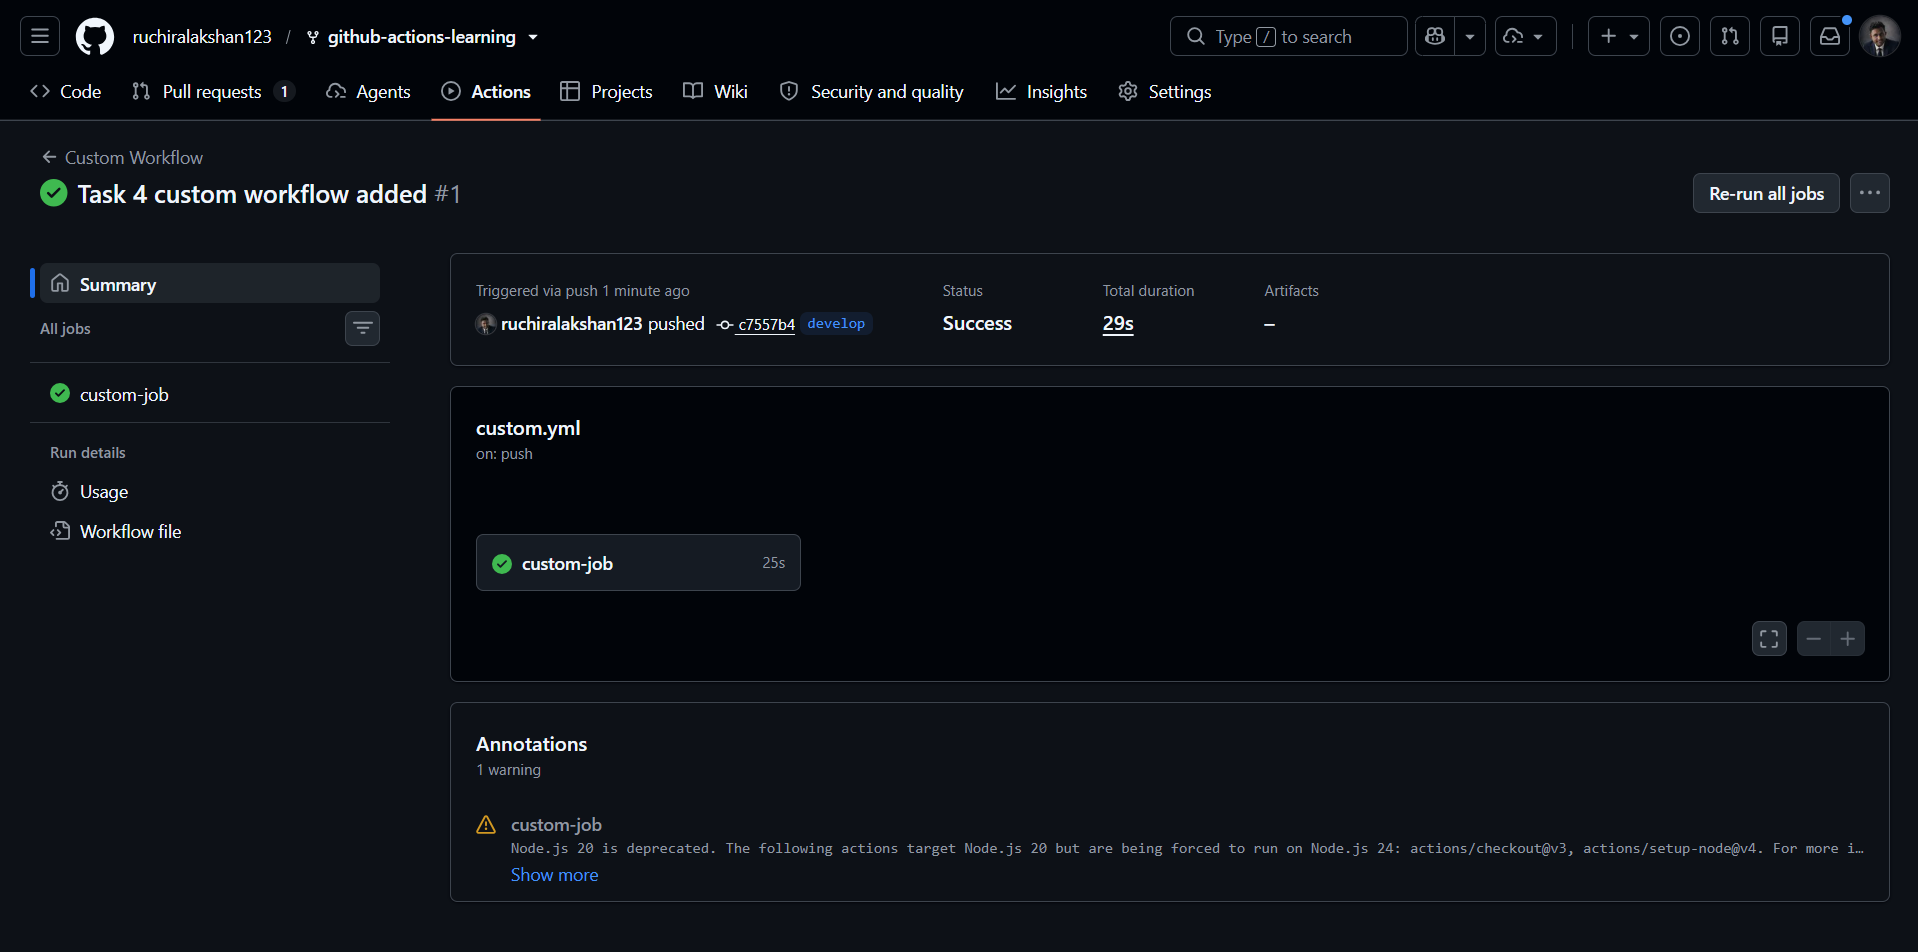
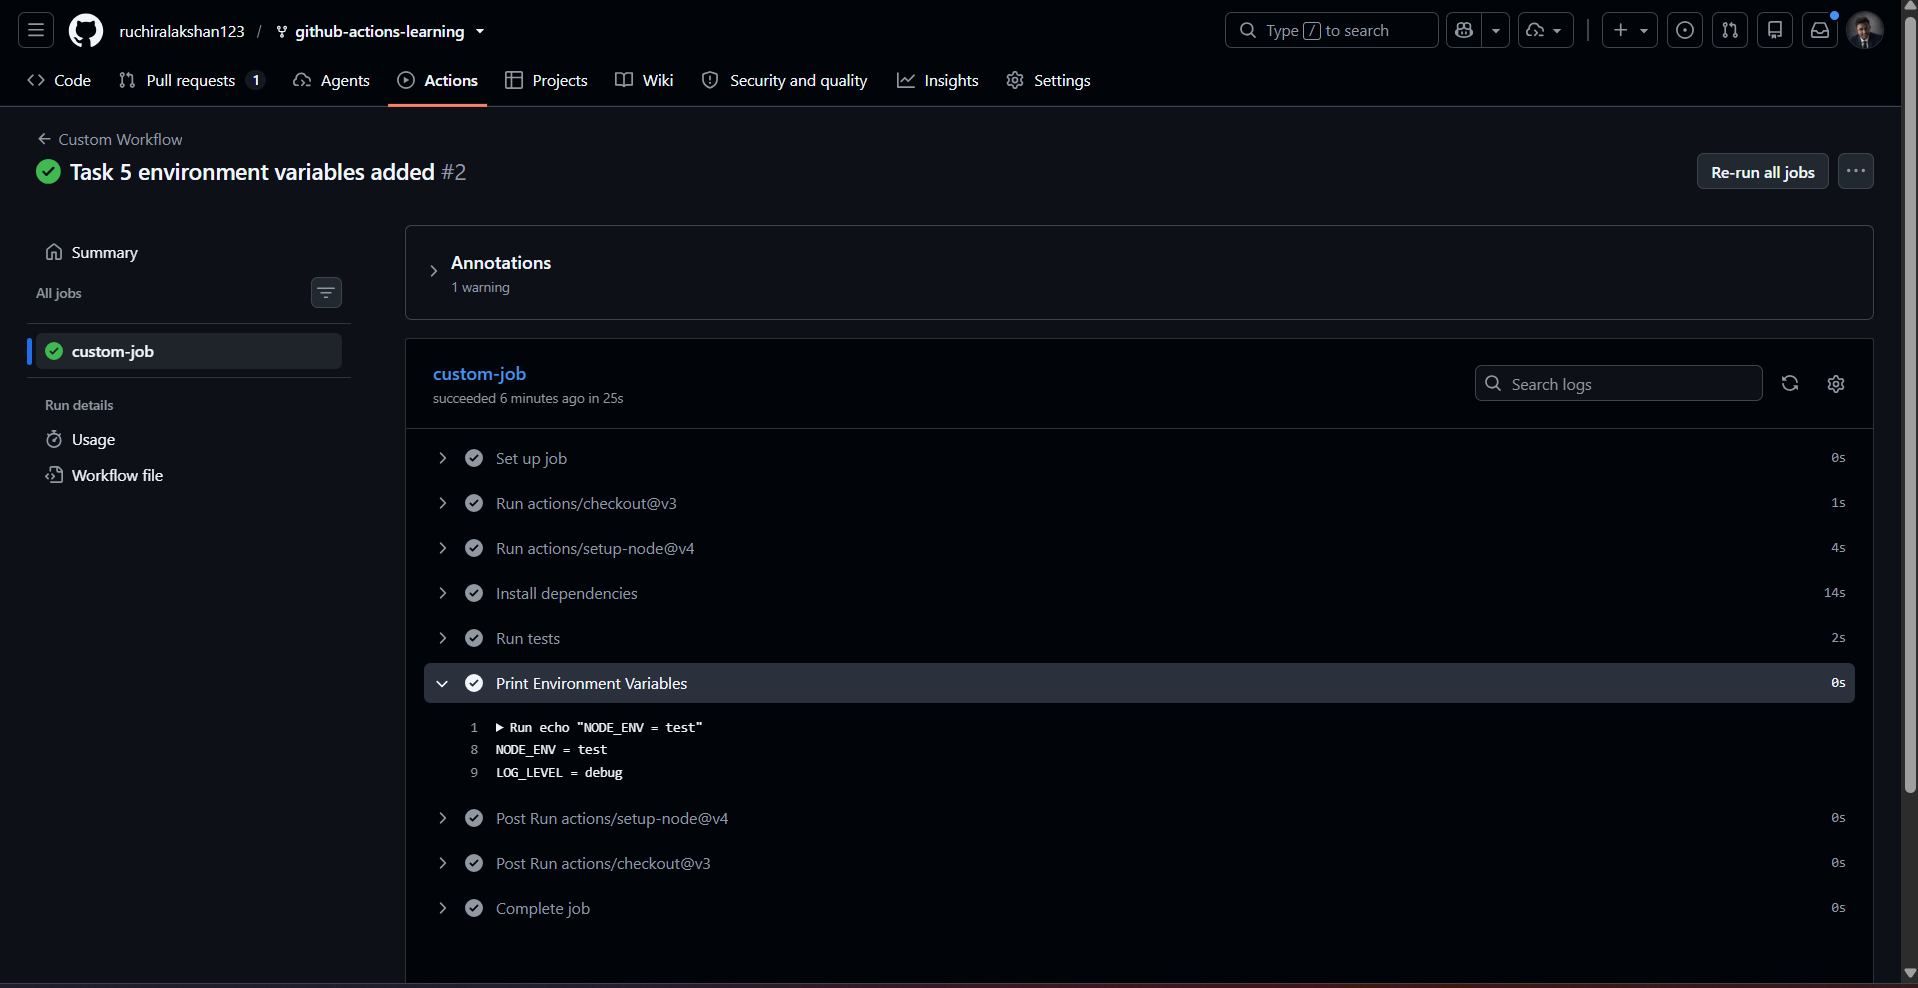
updet intermediate badge submission

diff --git a/.github/submissions/intermediate-badge-ruchira.md b/.github/submissions/intermediate-badge-ruchira.md
@@ -17,10 +17,17 @@
 
 ## 📷 Evidence
 
-### Task 4 & 5: Custom Workflow and Environment Variables
-*The screenshot below displays the printed global and local environment variables within the custom workflow log execution:*
+### Task 4: Create a Custom Workflow
+*The screenshot below shows the successful execution of the custom workflow (`custom-workflow.yml`) on the custom submission branch:*
 
-![Custom Workflow Environment Variables Output](./images/custom-workflow-env(2).png)
+![Custom Workflow Overall Run Success](./images/custom-workflow-run.png)
+
+---
+
+### Task 5: Add Environment Variables
+*The screenshot below displays the printed global and local environment variables within the workflow execution logs:*
+
+![Custom Workflow Environment Variables Output](./images/custom-workflow-env.png)
 
 ---
 
